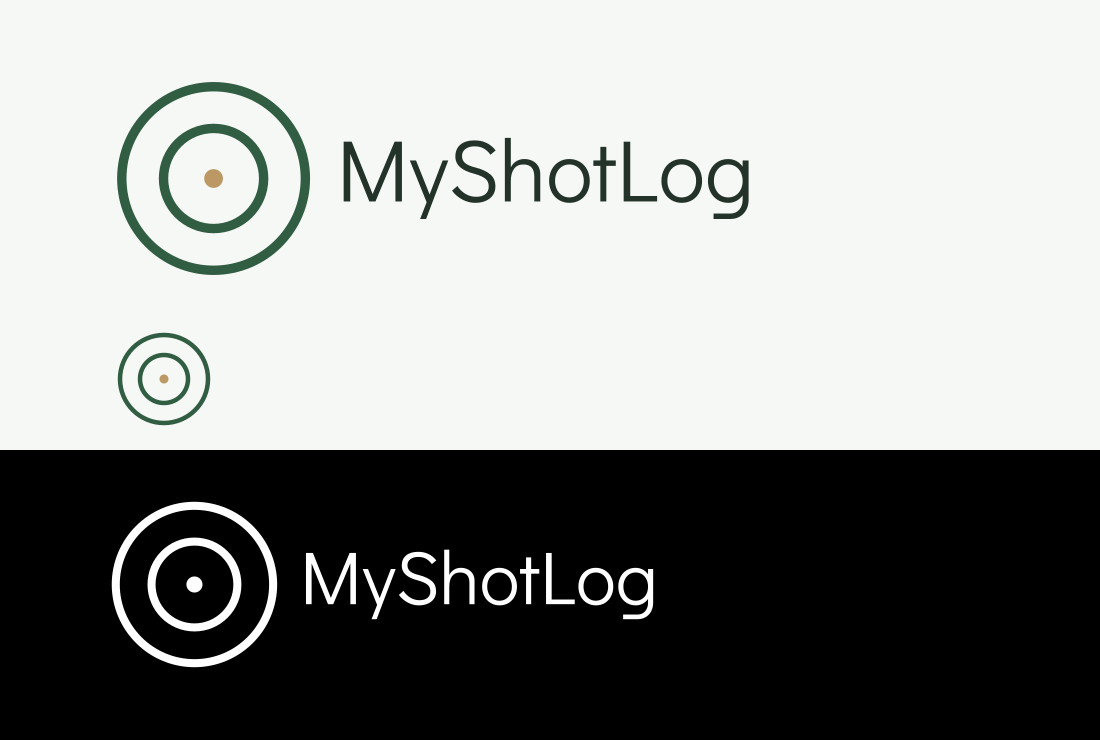
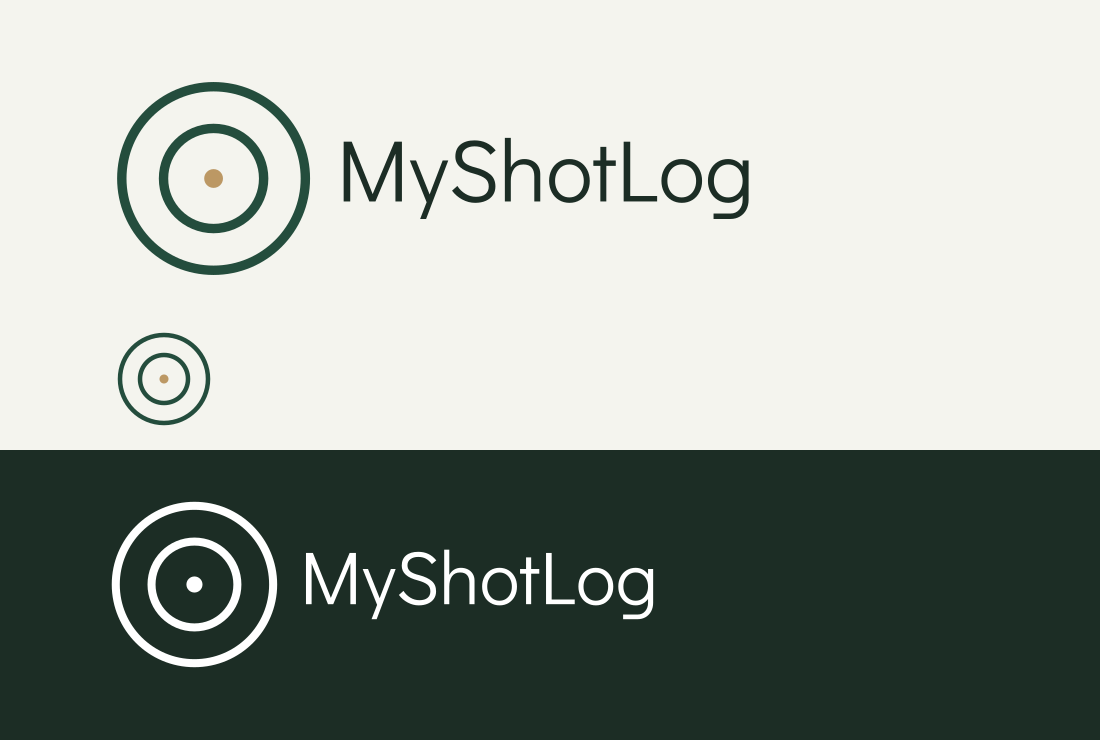
Unify branding across journal and standalone screens

diff --git a/app/globals.css b/app/globals.css
@@ -83,12 +83,6 @@ button:disabled {
   width: fit-content;
   max-width: 100%;
 }
-.brand-logo {
-  display: block;
-  width: var(--logo-width);
-  max-width: 100%;
-  height: auto;
-}
 .brand:focus-visible {
   outline: 2px solid var(--green);
   outline-offset: 5px;
@@ -103,7 +97,7 @@ button:disabled {
   align-items: center;
   gap: 13px;
   padding: 13px 12px;
-  color: #5c695e;
+  color: var(--muted);
   border-radius: var(--radius-control);
 }
 .sidebar nav a:hover {
@@ -140,7 +134,7 @@ button:disabled {
   padding: 0 44px;
   color: var(--muted);
   font-size: 12px;
-  background: #fafbf8;
+  background: var(--surface);
 }
 .content {
   max-width: 1280px;
@@ -166,7 +160,7 @@ button:disabled {
 h1 {
   font-size: 30px;
   letter-spacing: -0.02em;
-  font-weight: var(--weight-body);
+  font-weight: var(--weight-heading);
   margin: 0 0 9px;
   line-height: 1.2;
 }
@@ -203,7 +197,7 @@ p {
   margin: 0;
 }
 .card {
-  background: var(--white);
+  background: var(--surface);
   border: 1px solid var(--line);
   border-radius: var(--radius-panel);
   padding: var(--space-24);
@@ -265,17 +259,17 @@ p {
 .pill {
   display: inline-flex;
   align-items: center;
-  background: #f2f4ef;
+  background: var(--pale);
   padding: 5px 9px;
   border-radius: var(--radius-control);
   font-size: 10px;
   font-weight: 500;
-  color: #6c7965;
+  color: var(--muted);
   line-height: 1.5;
 }
 .pill.success {
-  background: #e7f2e9;
-  color: #2d6c42;
+  background: var(--pale);
+  color: var(--green);
 }
 .table-scroll {
   overflow: auto;
@@ -289,13 +283,13 @@ th {
   font-size: 9px;
   font-weight: 500;
   letter-spacing: 1px;
-  color: #899084;
+  color: var(--muted);
   padding: 16px 10px;
   border-bottom: 1px solid var(--line);
 }
 td {
   padding: 18px 10px;
-  border-bottom: 1px solid #edf0e9;
+  border-bottom: 1px solid var(--line);
   font-size: 12px;
   line-height: 1.5;
 }
@@ -333,11 +327,11 @@ tbody tr:last-child td {
 }
 .empty-target {
   font-size: 40px;
-  color: #a7b5a0;
+  color: var(--muted);
 }
 .chart-placeholder {
   font-size: 30px;
-  color: #b7c5ad;
+  color: var(--line);
   margin: 15px;
 }
 .chart label {
@@ -352,7 +346,7 @@ tbody tr:last-child td {
 }
 footer {
   padding: 0 44px 24px;
-  color: #969f92;
+  color: var(--muted);
   font-size: 9px;
   letter-spacing: 0.6px;
 }
@@ -381,7 +375,7 @@ textarea {
   width: 100%;
   min-width: 0;
   background: white;
-  border: 1px solid #dbe1d6;
+  border: 1px solid var(--line);
   border-radius: var(--radius-control);
   padding: 11px 12px;
   color: var(--ink);
@@ -392,7 +386,7 @@ textarea {
   resize: vertical;
 }
 :focus-visible {
-  outline: 2px solid #718e5f;
+  outline: 2px solid var(--green);
   outline-offset: 3px;
 }
 .form > button {
@@ -433,9 +427,9 @@ summary {
   padding: 8px 0;
 }
 .notice {
-  background: #eef2e9;
-  border: 1px solid #d8e0ce;
-  color: #566d45;
+  background: var(--pale);
+  border: 1px solid var(--line);
+  color: var(--green);
   padding: 15px 18px;
   border-radius: var(--radius-control);
   line-height: 1.7;
@@ -494,7 +488,7 @@ summary {
   position: relative;
 }
 .firearm-card > svg {
-  color: #94a786;
+  color: var(--muted);
   margin-bottom: 30px;
 }
 .firearm-card > .pill {
@@ -648,9 +642,6 @@ progress {
 .auth .brand {
   margin-bottom: 42px;
 }
-.auth .brand-logo {
-  width: 300px;
-}
 .auth h1 {
   font-size: 35px;
 }
@@ -713,9 +704,6 @@ progress {
     padding: 20px 18px 10px;
     border-right: 0;
     border-bottom: 1px solid var(--line);
-  }
-  .sidebar .brand-logo {
-    width: var(--logo-width-compact);
   }
   .sidebar-bottom {
     display: none;
@@ -881,7 +869,7 @@ progress {
   background: white;
   border: 1px solid var(--line);
   border-radius: var(--radius-control);
-  box-shadow: 0 8px 22px #23332920;
+  box-shadow: 0 8px 22px color-mix(in srgb, var(--ink) 13%, transparent);
 }
 .location-suggestions button {
   width: 100%;
@@ -935,7 +923,7 @@ progress {
 }
 .quick-score input {
   border: 2px solid var(--green);
-  background: #f5f8f2;
+  background: var(--surface);
 }
 .quick-details {
   margin-top: 18px;
@@ -1022,7 +1010,7 @@ progress {
     min-height: 82px;
   }
   .quick-save {
-    box-shadow: 0 4px 18px #23332930;
+    box-shadow: 0 4px 18px color-mix(in srgb, var(--ink) 19%, transparent);
   }
   .quick-feedback {
     grid-row: 2;
@@ -1178,6 +1166,9 @@ progress {
   max-width: 850px;
   margin: 0 auto;
   padding: 24px 18px 48px;
+}
+.witness-page > .brand-lockup {
+  margin-bottom: var(--space-24);
 }
 .witness-page header {
   display: flex;
@@ -1353,7 +1344,7 @@ input[type="time"],
   color: #896a32;
 }
 .installation-error > svg {
-  color: #a63732;
+  color: var(--danger);
 }
 
 .issue-dialog,
@@ -1469,7 +1460,7 @@ body:has(.issue-dialog[open], .sync-dialog[open]) {
   border-radius: 24px;
   background: var(--white);
   color: var(--muted);
-  box-shadow: 0 2px 8px #23332914;
+  box-shadow: 0 2px 8px color-mix(in srgb, var(--ink) 8%, transparent);
   font-size: 12px;
   font-weight: var(--weight-body);
 }
@@ -1887,12 +1878,6 @@ summary {
   padding: max(var(--space-16), env(safe-area-inset-top, 0px)) var(--space-32)
     var(--space-16);
 }
-.journal-topbar .brand {
-  gap: var(--space-8);
-  color: var(--ink);
-  font-size: 23px;
-  font-weight: var(--weight-emphasis);
-}
 .private-app .shell {
   display: grid;
   grid-template: "header header" auto "sidebar workspace" 1fr / 232px minmax(
@@ -2099,7 +2084,7 @@ summary {
     background: var(--surface);
     border: 1px solid var(--line);
     border-radius: var(--radius-overlay);
-    box-shadow: 0 6px 22px #1c2d2522;
+    box-shadow: 0 6px 22px color-mix(in srgb, var(--ink) 13%, transparent);
   }
   .mobile-journal-menu a,
   .mobile-journal-menu form {

diff --git a/components/private-shell.tsx b/components/private-shell.tsx
@@ -4,6 +4,7 @@ import { UpdateNotice } from "./app-updates";
 import { useI18n } from "./language-provider";
 import Link from "next/link";
 import { usePathname, useSearchParams } from "next/navigation";
+import { BrandLogo } from "./brand-logo";
 import { RedesignIcon } from "./redesign-icon";
 import { signOut } from "@/app/auth/actions";
 import { ShieldCheck } from "lucide-react";
@@ -120,7 +121,7 @@ export function PrivateShell({ children }: { children: React.ReactNode }) {
         >
           <header className="topbar journal-topbar">
             <Link href="/dashboard/" className="brand">
-              <RedesignIcon name="target" /> {tr("brand.name")}
+              <BrandLogo />
             </Link>
             <span className="private-tag">
               <ShieldCheck size={14} /> {tr("nav.onlyYou")}

diff --git a/components/witness-signing.tsx b/components/witness-signing.tsx
@@ -1,6 +1,7 @@
 "use client";
 import { useEffect, useRef, useState, type PointerEvent } from "react";
 import { useI18n } from "./language-provider";
+import { BrandLogo } from "./brand-logo";
 import { LoadingIndicator } from "./loading-indicator";
 import { WitnessReviewView } from "./witness-review";
 import type { WitnessReview, WitnessPhoto } from "@/lib/witness/model";
@@ -212,6 +213,7 @@ export function WitnessSigning() {
   }
   return (
     <main className="witness-page">
+      <BrandLogo />
       <header>
         <h1>{tr("witness.inviteTitle")}</h1>
         <label>

diff --git a/app/brand.css b/app/brand.css
@@ -27,8 +27,6 @@
   --space-48: 48px;
   --space-64: 64px;
   --control-height: 44px;
-  --logo-width: 180px;
-  --logo-width-compact: 160px;
   --weight-body: 400;
   --weight-heading: 600;
   --weight-emphasis: 600;
@@ -47,4 +45,17 @@ h4 {
 }
 strong {
   font-weight: var(--weight-emphasis);
+}
+.brand-lockup {
+  display: inline-flex;
+  align-items: center;
+  gap: var(--space-8);
+  color: var(--ink);
+  font-size: 23px;
+  font-weight: var(--weight-emphasis);
+  line-height: 1.2;
+  white-space: nowrap;
+}
+.brand-lockup img {
+  flex: none;
 }

diff --git a/components/brand-logo.tsx b/components/brand-logo.tsx
@@ -1,16 +1,11 @@
 import { swText } from "@/lib/i18n";
-import Image from "next/image";
+import { RedesignIcon } from "./redesign-icon";
 
 export function BrandLogo() {
   return (
-    <Image
-      className="brand-logo"
-      src="/brand/MyShotLog-logo.svg"
-      alt={swText("brand.name")}
-      width={671}
-      height={256}
-      unoptimized
-      loading="eager"
-    />
+    <span className="brand-lockup">
+      <RedesignIcon name="target" />
+      {swText("brand.name")}
+    </span>
   );
 }

diff --git a/tests/ui/login.spec.ts b/tests/ui/login.spec.ts
@@ -13,6 +13,10 @@ for (const language of ["sv", "en"] as const) {
     await expect(page.locator("html")).toHaveAttribute("lang", language);
     await page.waitForLoadState("networkidle");
     const login = await page.goto("/login/");
+    await expect(page.locator(".brand-lockup img")).toHaveAttribute(
+      "src",
+      "/redesign/target.svg",
+    );
     expect(login?.headers()["content-security-policy"]).toContain(
       "form-action 'self'",
     );

diff --git a/docs/DESIGN.md b/docs/DESIGN.md
@@ -18,8 +18,9 @@ favicons match. Do not edit generated brand CSS independently.
 - Use the shared control/panel/overlay radius instead of introducing a new radius.
 - Keep page-heading actions aligned with their title on wide screens and aligned
   to the content edge when stacked. Avoid adding action margins inside headings.
-- Logo widths are 180 px, or 160 px in compact headers. Standalone login and
-  promotional presentations can use larger variants of the same asset.
+- Rubrikerna i appen och på webbplatsen använder samma 32 px målikon och
+  ordbild. För export och installation finns separata logofiler och ikoner
+  som genereras från samma färgpalett.
 - Mobile session rows keep the date, location, firearm, medals, series and shots
   visible. Detailed score tables may scroll within their own container.
 - Website marketing headings are larger than journal headings; inner website

diff --git a/README.md b/README.md
@@ -64,6 +64,8 @@ Beroende- och säkerhetskontrollen från 16 november 2026 finns i [beroenden och
 
 Resultat för oanvänd kod och komprimerad JavaScript-storlek finns i [paketgranskningen, 16 oktober 2026](docs/BUNDLE-AUDIT-2026-10-16.md).
 
+Inloggning, installation, journal och vittnesvy använder samma visuella tema som den publika webbplatsen. Se [designreglerna](docs/DESIGN.md).
+
 ## Språk och UI-texter
 
 Alla fasta UI-texter finns i `lib/locales/sv.json` och `lib/locales/en.json`, med samma nycklar i båda filerna. Profilens `language` i den lokala journalvyn styr UI:t och synkas till `profile.json`. Serverns skal använder en kontobunden språkledtråd utan att läsa Git. Ändra språk under **Inställningar → Din profil → Språk** och spara profilen. Befintliga profiler utan språkfält använder svenska; webbläsarens språk ersätter inte profilvalet.
